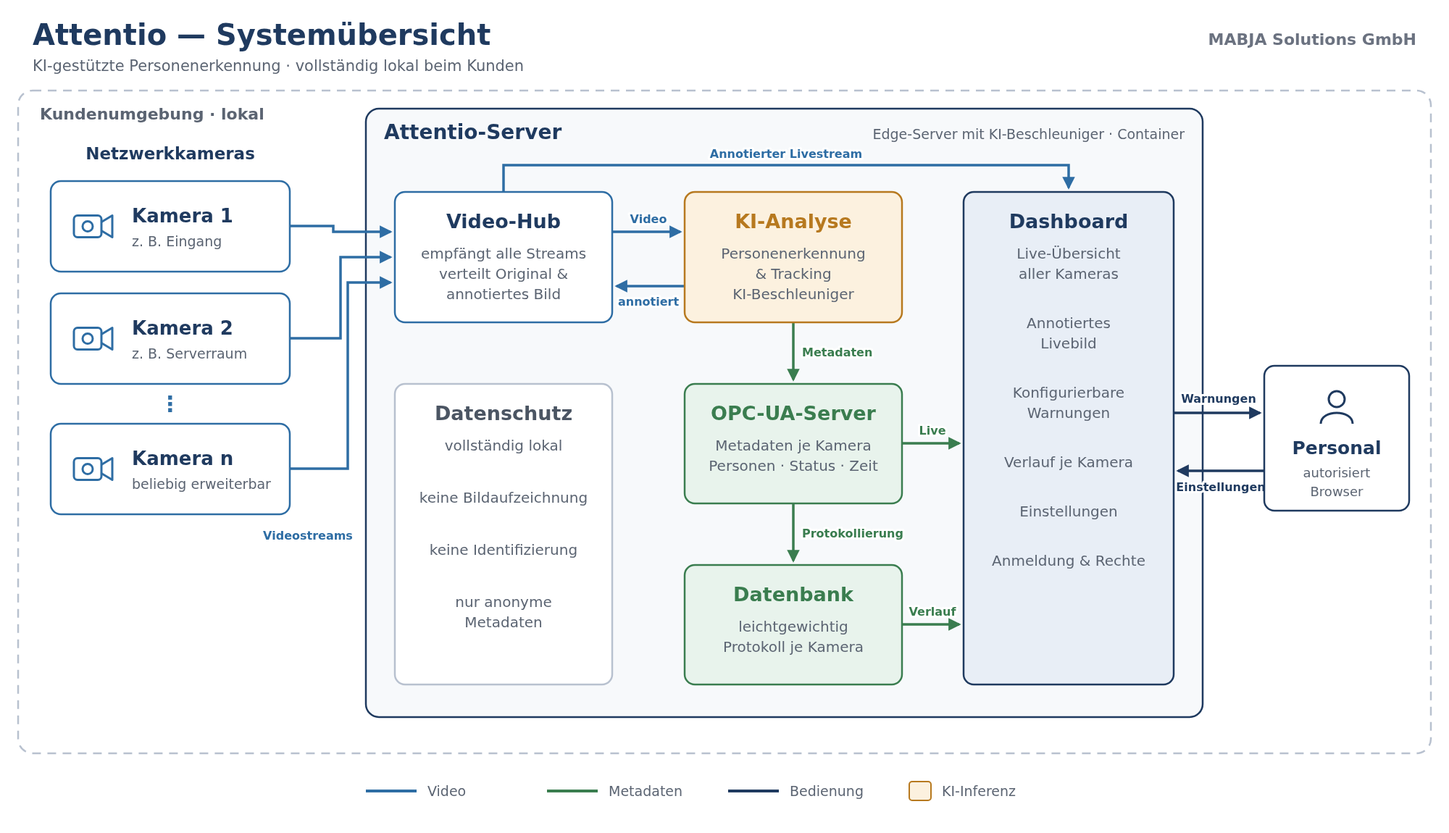
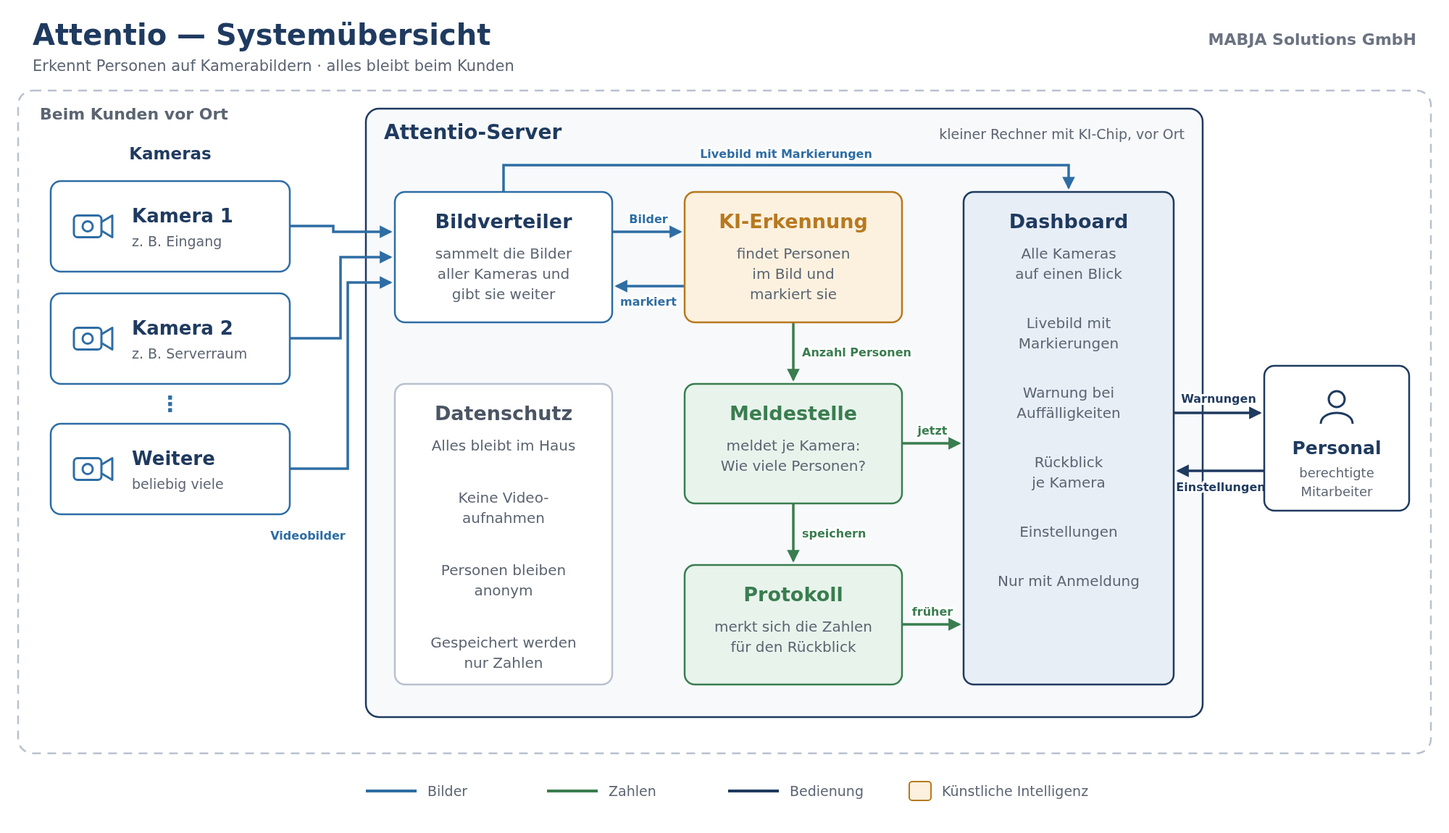
Update der Grafik

diff --git a/Attentio_Systemuebersicht.html b/Attentio_Systemuebersicht.html
@@ -40,6 +40,9 @@ svg.focusing .node:not(.near):not(.frame), svg.focusing .edge:not(.lit) { opacit
 .chip.nutzer { background:#e3f2e8; color:#2f6b42; }
 .info ul { margin:10px 0 0; padding-left:18px; }
 .info li { margin:4px 0; }
+.info .tech { margin-top:10px; padding-top:8px; border-top:1px solid var(--border); }
+.info .tech h3 { margin:0; font-size:12.5px; text-transform:uppercase; letter-spacing:.04em; color:var(--muted); }
+.info .tech ul { margin-top:6px; font-size:13.5px; color:var(--muted); }
 .info .close { border:0; background:transparent; color:var(--muted); font-size:20px; line-height:1; cursor:pointer; padding:0 2px; }
 @media (max-width: 700px) {
   .info { position:fixed; left:12px !important; right:12px; bottom:12px; top:auto !important; width:auto; max-height:55vh; overflow:auto; }
@@ -59,12 +62,12 @@ svg.focusing .node:not(.near):not(.frame), svg.focusing .edge:not(.lit) { opacit
 </defs>
 <rect width="2000" height="1150" fill="#ffffff"/>
 <text x="45" y="62" font-size="40" fill="#1f3a5f" font-weight="bold" text-anchor="start">Attentio — Systemübersicht</text>
-<text x="45" y="98" font-size="21" fill="#5b6472" font-weight="normal" text-anchor="start">KI-gestützte Personenerkennung · vollständig lokal beim Kunden</text>
+<text x="45" y="98" font-size="21" fill="#5b6472" font-weight="normal" text-anchor="start">Erkennt Personen auf Kamerabildern · alles bleibt beim Kunden</text>
 <text x="1955" y="62" font-size="22" fill="#6b7280" font-weight="bold" text-anchor="end">MABJA Solutions GmbH</text>
-<g class="node frame" data-id="network" tabindex="0" role="button" aria-label="Kundenumgebung"><rect class="box" x="25" y="125" width="1950" height="915" rx="20" fill="none" stroke="#b8c1cf" stroke-width="2.5" stroke-dasharray="12 9"/><text x="55" y="165" font-size="22" fill="#5b6472" font-weight="bold" text-anchor="start">Kundenumgebung · lokal</text></g>
-<text x="235" y="220" font-size="23" fill="#1f3a5f" font-weight="bold" text-anchor="middle">Netzwerkkameras</text>
+<g class="node frame" data-id="network" tabindex="0" role="button" aria-label="Kundenumgebung"><rect class="box" x="25" y="125" width="1950" height="915" rx="20" fill="none" stroke="#b8c1cf" stroke-width="2.5" stroke-dasharray="12 9"/><text x="55" y="165" font-size="22" fill="#5b6472" font-weight="bold" text-anchor="start">Beim Kunden vor Ort</text></g>
+<text x="235" y="220" font-size="23" fill="#1f3a5f" font-weight="bold" text-anchor="middle">Kameras</text>
 <text x="235" y="568" font-size="30" fill="#2e6da4" font-weight="bold" text-anchor="middle">⋮</text>
-<g class="node frame" data-id="server" tabindex="0" role="button" aria-label="Attentio-Server"><rect class="box" x="505" y="150" width="1155" height="840" rx="18" fill="#f7f9fb" stroke="#1f3a5f" stroke-width="2.5"/><text x="530" y="192" font-size="28" fill="#1f3a5f" font-weight="bold" text-anchor="start">Attentio-Server</text><text x="1635" y="192" font-size="19" fill="#5b6472" font-weight="normal" text-anchor="end">Edge-Server mit KI-Beschleuniger · Container</text></g>
+<g class="node frame" data-id="server" tabindex="0" role="button" aria-label="Attentio-Server"><rect class="box" x="505" y="150" width="1155" height="840" rx="18" fill="#f7f9fb" stroke="#1f3a5f" stroke-width="2.5"/><text x="530" y="192" font-size="28" fill="#1f3a5f" font-weight="bold" text-anchor="start">Attentio-Server</text><text x="1635" y="192" font-size="19" fill="#5b6472" font-weight="normal" text-anchor="end">kleiner Rechner mit KI-Chip, vor Ort</text></g>
 <g class="edge" data-id="e0" data-a="cam1" data-b="hub">
 <path d="M400,312 H460 V320 H539" fill="none" stroke="transparent" stroke-width="18"/>
 <path class="line" d="M400,312 H460 V320 H539" fill="none" stroke="#2e6da4" stroke-width="3.5" marker-end="url(#arrow-video)"/>
@@ -76,42 +79,42 @@ svg.focusing .node:not(.near):not(.frame), svg.focusing .edge:not(.lit) { opacit
 <g class="edge" data-id="e2" data-a="camn" data-b="hub">
 <path d="M400,647 H480 V390 H539" fill="none" stroke="transparent" stroke-width="18"/>
 <path class="line" d="M400,647 H480 V390 H539" fill="none" stroke="#2e6da4" stroke-width="3.5" marker-end="url(#arrow-video)"/>
-<text class="elabel" x="425" y="745" font-size="16" fill="#2e6da4" font-weight="bold" text-anchor="middle" paint-order="stroke" stroke="#ffffff" stroke-width="6" stroke-linejoin="round">Videostreams</text>
+<text class="elabel" x="425" y="745" font-size="16" fill="#2e6da4" font-weight="bold" text-anchor="middle" paint-order="stroke" stroke="#ffffff" stroke-width="6" stroke-linejoin="round">Videobilder</text>
 </g>
 <g class="edge" data-id="e3" data-a="hub" data-b="ai">
 <path d="M845,320 H939" fill="none" stroke="transparent" stroke-width="18"/>
 <path class="line" d="M845,320 H939" fill="none" stroke="#2e6da4" stroke-width="3.5" marker-end="url(#arrow-video)"/>
-<text class="elabel" x="895" y="308" font-size="16" fill="#2e6da4" font-weight="bold" text-anchor="middle" paint-order="stroke" stroke="#ffffff" stroke-width="6" stroke-linejoin="round">Video</text>
+<text class="elabel" x="895" y="308" font-size="16" fill="#2e6da4" font-weight="bold" text-anchor="middle" paint-order="stroke" stroke="#ffffff" stroke-width="6" stroke-linejoin="round">Bilder</text>
 </g>
 <g class="edge" data-id="e4" data-a="ai" data-b="hub">
 <path d="M945,395 H851" fill="none" stroke="transparent" stroke-width="18"/>
 <path class="line" d="M945,395 H851" fill="none" stroke="#2e6da4" stroke-width="3.5" marker-end="url(#arrow-video)"/>
-<text class="elabel" x="895" y="422" font-size="16" fill="#2e6da4" font-weight="bold" text-anchor="middle" paint-order="stroke" stroke="#ffffff" stroke-width="6" stroke-linejoin="round">annotiert</text>
+<text class="elabel" x="895" y="422" font-size="16" fill="#2e6da4" font-weight="bold" text-anchor="middle" paint-order="stroke" stroke="#ffffff" stroke-width="6" stroke-linejoin="round">markiert</text>
 </g>
 <g class="edge" data-id="e5" data-a="hub" data-b="dashboard">
 <path d="M695,265 V228 H1475 V259" fill="none" stroke="transparent" stroke-width="18"/>
 <path class="line" d="M695,265 V228 H1475 V259" fill="none" stroke="#2e6da4" stroke-width="3.5" marker-end="url(#arrow-video)"/>
-<text class="elabel" x="1085" y="218" font-size="16" fill="#2e6da4" font-weight="bold" text-anchor="middle" paint-order="stroke" stroke="#ffffff" stroke-width="6" stroke-linejoin="round">Annotierter Livestream</text>
+<text class="elabel" x="1085" y="218" font-size="16" fill="#2e6da4" font-weight="bold" text-anchor="middle" paint-order="stroke" stroke="#ffffff" stroke-width="6" stroke-linejoin="round">Livebild mit Markierungen</text>
 </g>
 <g class="edge" data-id="e6" data-a="ai" data-b="opcua">
 <path d="M1095,445 V524" fill="none" stroke="transparent" stroke-width="18"/>
 <path class="line" d="M1095,445 V524" fill="none" stroke="#3a7d4f" stroke-width="3.5" marker-end="url(#arrow-meta)"/>
-<text class="elabel" x="1107" y="492" font-size="16" fill="#3a7d4f" font-weight="bold" text-anchor="start" paint-order="stroke" stroke="#ffffff" stroke-width="6" stroke-linejoin="round">Metadaten</text>
+<text class="elabel" x="1107" y="492" font-size="16" fill="#3a7d4f" font-weight="bold" text-anchor="start" paint-order="stroke" stroke="#ffffff" stroke-width="6" stroke-linejoin="round">Anzahl Personen</text>
 </g>
 <g class="edge" data-id="e7" data-a="opcua" data-b="dashboard">
 <path d="M1245,612 H1324" fill="none" stroke="transparent" stroke-width="18"/>
 <path class="line" d="M1245,612 H1324" fill="none" stroke="#3a7d4f" stroke-width="3.5" marker-end="url(#arrow-meta)"/>
-<text class="elabel" x="1287" y="600" font-size="16" fill="#3a7d4f" font-weight="bold" text-anchor="middle" paint-order="stroke" stroke="#ffffff" stroke-width="6" stroke-linejoin="round">Live</text>
+<text class="elabel" x="1287" y="600" font-size="16" fill="#3a7d4f" font-weight="bold" text-anchor="middle" paint-order="stroke" stroke="#ffffff" stroke-width="6" stroke-linejoin="round">jetzt</text>
 </g>
 <g class="edge" data-id="e8" data-a="opcua" data-b="db">
 <path d="M1095,695 V774" fill="none" stroke="transparent" stroke-width="18"/>
 <path class="line" d="M1095,695 V774" fill="none" stroke="#3a7d4f" stroke-width="3.5" marker-end="url(#arrow-meta)"/>
-<text class="elabel" x="1107" y="742" font-size="16" fill="#3a7d4f" font-weight="bold" text-anchor="start" paint-order="stroke" stroke="#ffffff" stroke-width="6" stroke-linejoin="round">Protokollierung</text>
+<text class="elabel" x="1107" y="742" font-size="16" fill="#3a7d4f" font-weight="bold" text-anchor="start" paint-order="stroke" stroke="#ffffff" stroke-width="6" stroke-linejoin="round">speichern</text>
 </g>
 <g class="edge" data-id="e9" data-a="db" data-b="dashboard">
 <path d="M1245,862 H1324" fill="none" stroke="transparent" stroke-width="18"/>
 <path class="line" d="M1245,862 H1324" fill="none" stroke="#3a7d4f" stroke-width="3.5" marker-end="url(#arrow-meta)"/>
-<text class="elabel" x="1287" y="850" font-size="16" fill="#3a7d4f" font-weight="bold" text-anchor="middle" paint-order="stroke" stroke="#ffffff" stroke-width="6" stroke-linejoin="round">Verlauf</text>
+<text class="elabel" x="1287" y="850" font-size="16" fill="#3a7d4f" font-weight="bold" text-anchor="middle" paint-order="stroke" stroke="#ffffff" stroke-width="6" stroke-linejoin="round">früher</text>
 </g>
 <g class="edge" data-id="e10" data-a="dashboard" data-b="staff">
 <path d="M1620,570 H1739" fill="none" stroke="transparent" stroke-width="18"/>
@@ -135,91 +138,95 @@ svg.focusing .node:not(.near):not(.frame), svg.focusing .edge:not(.lit) { opacit
 <text x="182" y="462" font-size="26" fill="#1f3a5f" font-weight="bold" text-anchor="start">Kamera 2</text>
 <text x="182" y="495" font-size="19" fill="#5b6472" font-weight="normal" text-anchor="start">z. B. Serverraum</text>
 </g>
-<g class="node" data-id="camn" tabindex="0" role="button" aria-label="Kamera n">
+<g class="node" data-id="camn" tabindex="0" role="button" aria-label="Weitere">
 <rect class="box" x="70" y="585" width="330" height="125" rx="14" fill="#ffffff" stroke="#2e6da4" stroke-width="2.5"/>
 <g fill="none" stroke="#2e6da4" stroke-width="3" stroke-linejoin="round"><rect x="102" y="632.5" width="38" height="30" rx="5"/><path d="M140,641.5 L155,632.5 V662.5 L140,653.5"/><circle cx="121" cy="647.5" r="7"/></g>
-<text x="182" y="642" font-size="26" fill="#1f3a5f" font-weight="bold" text-anchor="start">Kamera n</text>
-<text x="182" y="675" font-size="19" fill="#5b6472" font-weight="normal" text-anchor="start">beliebig erweiterbar</text>
+<text x="182" y="642" font-size="26" fill="#1f3a5f" font-weight="bold" text-anchor="start">Weitere</text>
+<text x="182" y="675" font-size="19" fill="#5b6472" font-weight="normal" text-anchor="start">beliebig viele</text>
 </g>
-<g class="node" data-id="hub" tabindex="0" role="button" aria-label="Video-Hub">
+<g class="node" data-id="hub" tabindex="0" role="button" aria-label="Bildverteiler">
 <rect class="box" x="545" y="265" width="300" height="180" rx="14" fill="#ffffff" stroke="#2e6da4" stroke-width="2.5"/>
-<text x="695.0" y="315" font-size="27" fill="#1f3a5f" font-weight="bold" text-anchor="middle">Video-Hub</text>
-<text x="695.0" y="357" font-size="20" fill="#5b6472" font-weight="normal" text-anchor="middle">empfängt alle Streams</text>
-<text x="695.0" y="385" font-size="20" fill="#5b6472" font-weight="normal" text-anchor="middle">verteilt Original &amp;</text>
-<text x="695.0" y="413" font-size="20" fill="#5b6472" font-weight="normal" text-anchor="middle">annotiertes Bild</text>
+<text x="695.0" y="315" font-size="27" fill="#1f3a5f" font-weight="bold" text-anchor="middle">Bildverteiler</text>
+<text x="695.0" y="357" font-size="20" fill="#5b6472" font-weight="normal" text-anchor="middle">sammelt die Bilder</text>
+<text x="695.0" y="385" font-size="20" fill="#5b6472" font-weight="normal" text-anchor="middle">aller Kameras und</text>
+<text x="695.0" y="413" font-size="20" fill="#5b6472" font-weight="normal" text-anchor="middle">gibt sie weiter</text>
 </g>
-<g class="node" data-id="ai" tabindex="0" role="button" aria-label="KI-Analyse">
+<g class="node" data-id="ai" tabindex="0" role="button" aria-label="KI-Erkennung">
 <rect class="box" x="945" y="265" width="300" height="180" rx="14" fill="#fcf1df" stroke="#b7791f" stroke-width="2.5"/>
-<text x="1095.0" y="315" font-size="27" fill="#b7791f" font-weight="bold" text-anchor="middle">KI-Analyse</text>
-<text x="1095.0" y="357" font-size="20" fill="#5b6472" font-weight="normal" text-anchor="middle">Personenerkennung</text>
-<text x="1095.0" y="385" font-size="20" fill="#5b6472" font-weight="normal" text-anchor="middle">&amp; Tracking</text>
-<text x="1095.0" y="413" font-size="20" fill="#5b6472" font-weight="normal" text-anchor="middle">KI-Beschleuniger</text>
+<text x="1095.0" y="315" font-size="27" fill="#b7791f" font-weight="bold" text-anchor="middle">KI-Erkennung</text>
+<text x="1095.0" y="357" font-size="20" fill="#5b6472" font-weight="normal" text-anchor="middle">findet Personen</text>
+<text x="1095.0" y="385" font-size="20" fill="#5b6472" font-weight="normal" text-anchor="middle">im Bild und</text>
+<text x="1095.0" y="413" font-size="20" fill="#5b6472" font-weight="normal" text-anchor="middle">markiert sie</text>
 </g>
-<g class="node" data-id="opcua" tabindex="0" role="button" aria-label="OPC-UA-Server">
+<g class="node" data-id="opcua" tabindex="0" role="button" aria-label="Meldestelle">
 <rect class="box" x="945" y="530" width="300" height="165" rx="14" fill="#e8f3ec" stroke="#3a7d4f" stroke-width="2.5"/>
-<text x="1095.0" y="580" font-size="27" fill="#3a7d4f" font-weight="bold" text-anchor="middle">OPC-UA-Server</text>
-<text x="1095.0" y="622" font-size="20" fill="#5b6472" font-weight="normal" text-anchor="middle">Metadaten je Kamera</text>
-<text x="1095.0" y="650" font-size="20" fill="#5b6472" font-weight="normal" text-anchor="middle">Personen · Status · Zeit</text>
+<text x="1095.0" y="580" font-size="27" fill="#3a7d4f" font-weight="bold" text-anchor="middle">Meldestelle</text>
+<text x="1095.0" y="622" font-size="20" fill="#5b6472" font-weight="normal" text-anchor="middle">meldet je Kamera:</text>
+<text x="1095.0" y="650" font-size="20" fill="#5b6472" font-weight="normal" text-anchor="middle">Wie viele Personen?</text>
 </g>
-<g class="node" data-id="db" tabindex="0" role="button" aria-label="Datenbank">
+<g class="node" data-id="db" tabindex="0" role="button" aria-label="Protokoll">
 <rect class="box" x="945" y="780" width="300" height="165" rx="14" fill="#e8f3ec" stroke="#3a7d4f" stroke-width="2.5"/>
-<text x="1095.0" y="830" font-size="27" fill="#3a7d4f" font-weight="bold" text-anchor="middle">Datenbank</text>
-<text x="1095.0" y="872" font-size="20" fill="#5b6472" font-weight="normal" text-anchor="middle">leichtgewichtig</text>
-<text x="1095.0" y="900" font-size="20" fill="#5b6472" font-weight="normal" text-anchor="middle">Protokoll je Kamera</text>
+<text x="1095.0" y="830" font-size="27" fill="#3a7d4f" font-weight="bold" text-anchor="middle">Protokoll</text>
+<text x="1095.0" y="872" font-size="20" fill="#5b6472" font-weight="normal" text-anchor="middle">merkt sich die Zahlen</text>
+<text x="1095.0" y="900" font-size="20" fill="#5b6472" font-weight="normal" text-anchor="middle">für den Rückblick</text>
 </g>
 <g class="node" data-id="dashboard" tabindex="0" role="button" aria-label="Dashboard">
 <rect class="box" x="1330" y="265" width="290" height="680" rx="14" fill="#e8eef6" stroke="#1f3a5f" stroke-width="2.5"/>
 <text x="1475.0" y="315" font-size="27" fill="#1f3a5f" font-weight="bold" text-anchor="middle">Dashboard</text>
-<text x="1475.0" y="357" font-size="20" fill="#5b6472" font-weight="normal" text-anchor="middle">Live-Übersicht</text>
-<text x="1475.0" y="385" font-size="20" fill="#5b6472" font-weight="normal" text-anchor="middle">aller Kameras</text>
-<text x="1475.0" y="453" font-size="20" fill="#5b6472" font-weight="normal" text-anchor="middle">Annotiertes</text>
-<text x="1475.0" y="481" font-size="20" fill="#5b6472" font-weight="normal" text-anchor="middle">Livebild</text>
-<text x="1475.0" y="549" font-size="20" fill="#5b6472" font-weight="normal" text-anchor="middle">Konfigurierbare</text>
-<text x="1475.0" y="577" font-size="20" fill="#5b6472" font-weight="normal" text-anchor="middle">Warnungen</text>
-<text x="1475.0" y="645" font-size="20" fill="#5b6472" font-weight="normal" text-anchor="middle">Verlauf je Kamera</text>
-<text x="1475.0" y="713" font-size="20" fill="#5b6472" font-weight="normal" text-anchor="middle">Einstellungen</text>
-<text x="1475.0" y="781" font-size="20" fill="#5b6472" font-weight="normal" text-anchor="middle">Anmeldung &amp; Rechte</text>
+<text x="1475.0" y="357" font-size="20" fill="#5b6472" font-weight="normal" text-anchor="middle">Alle Kameras</text>
+<text x="1475.0" y="385" font-size="20" fill="#5b6472" font-weight="normal" text-anchor="middle">auf einen Blick</text>
+<text x="1475.0" y="453" font-size="20" fill="#5b6472" font-weight="normal" text-anchor="middle">Livebild mit</text>
+<text x="1475.0" y="481" font-size="20" fill="#5b6472" font-weight="normal" text-anchor="middle">Markierungen</text>
+<text x="1475.0" y="549" font-size="20" fill="#5b6472" font-weight="normal" text-anchor="middle">Warnung bei</text>
+<text x="1475.0" y="577" font-size="20" fill="#5b6472" font-weight="normal" text-anchor="middle">Auffälligkeiten</text>
+<text x="1475.0" y="645" font-size="20" fill="#5b6472" font-weight="normal" text-anchor="middle">Rückblick</text>
+<text x="1475.0" y="673" font-size="20" fill="#5b6472" font-weight="normal" text-anchor="middle">je Kamera</text>
+<text x="1475.0" y="741" font-size="20" fill="#5b6472" font-weight="normal" text-anchor="middle">Einstellungen</text>
+<text x="1475.0" y="809" font-size="20" fill="#5b6472" font-weight="normal" text-anchor="middle">Nur mit Anmeldung</text>
 </g>
 <g class="node" data-id="privacy" tabindex="0" role="button" aria-label="Datenschutz">
 <rect class="box" x="545" y="530" width="300" height="415" rx="14" fill="#ffffff" stroke="#b8c1cf" stroke-width="2.5"/>
 <text x="695.0" y="580" font-size="27" fill="#4b5563" font-weight="bold" text-anchor="middle">Datenschutz</text>
-<text x="695.0" y="622" font-size="20" fill="#5b6472" font-weight="normal" text-anchor="middle">vollständig lokal</text>
-<text x="695.0" y="694" font-size="20" fill="#5b6472" font-weight="normal" text-anchor="middle">keine Bildaufzeichnung</text>
-<text x="695.0" y="766" font-size="20" fill="#5b6472" font-weight="normal" text-anchor="middle">keine Identifizierung</text>
-<text x="695.0" y="838" font-size="20" fill="#5b6472" font-weight="normal" text-anchor="middle">nur anonyme</text>
-<text x="695.0" y="866" font-size="20" fill="#5b6472" font-weight="normal" text-anchor="middle">Metadaten</text>
+<text x="695.0" y="622" font-size="20" fill="#5b6472" font-weight="normal" text-anchor="middle">Alles bleibt im Haus</text>
+<text x="695.0" y="694" font-size="20" fill="#5b6472" font-weight="normal" text-anchor="middle">Keine Video-</text>
+<text x="695.0" y="722" font-size="20" fill="#5b6472" font-weight="normal" text-anchor="middle">aufnahmen</text>
+<text x="695.0" y="794" font-size="20" fill="#5b6472" font-weight="normal" text-anchor="middle">Personen bleiben</text>
+<text x="695.0" y="822" font-size="20" fill="#5b6472" font-weight="normal" text-anchor="middle">anonym</text>
+<text x="695.0" y="894" font-size="20" fill="#5b6472" font-weight="normal" text-anchor="middle">Gespeichert werden</text>
+<text x="695.0" y="922" font-size="20" fill="#5b6472" font-weight="normal" text-anchor="middle">nur Zahlen</text>
 </g>
 <g class="node" data-id="staff" tabindex="0" role="button" aria-label="Personal">
 <rect class="box" x="1745" y="505" width="200" height="200" rx="14" fill="#ffffff" stroke="#1f3a5f" stroke-width="2.5"/>
 <g fill="none" stroke="#1f3a5f" stroke-width="3"><circle cx="1845.0" cy="551" r="11"/><path d="M1823.0,585 C1823.0,565 1867.0,565 1867.0,585"/></g>
 <text x="1845.0" y="627" font-size="25" fill="#1f3a5f" font-weight="bold" text-anchor="middle">Personal</text>
-<text x="1845.0" y="659" font-size="18" fill="#5b6472" font-weight="normal" text-anchor="middle">autorisiert</text>
-<text x="1845.0" y="685" font-size="18" fill="#5b6472" font-weight="normal" text-anchor="middle">Browser</text>
+<text x="1845.0" y="659" font-size="18" fill="#5b6472" font-weight="normal" text-anchor="middle">berechtigte</text>
+<text x="1845.0" y="685" font-size="18" fill="#5b6472" font-weight="normal" text-anchor="middle">Mitarbeiter</text>
 </g>
 <line x1="505" y1="1092" x2="575" y2="1092" stroke="#2e6da4" stroke-width="4"/>
-<text x="590" y="1099" font-size="19" fill="#5b6472" font-weight="normal" text-anchor="start">Video</text>
+<text x="590" y="1099" font-size="19" fill="#5b6472" font-weight="normal" text-anchor="start">Bilder</text>
 <line x1="755" y1="1092" x2="825" y2="1092" stroke="#3a7d4f" stroke-width="4"/>
-<text x="840" y="1099" font-size="19" fill="#5b6472" font-weight="normal" text-anchor="start">Metadaten</text>
+<text x="840" y="1099" font-size="19" fill="#5b6472" font-weight="normal" text-anchor="start">Zahlen</text>
 <line x1="1005" y1="1092" x2="1075" y2="1092" stroke="#1f3a5f" stroke-width="4"/>
 <text x="1090" y="1099" font-size="19" fill="#5b6472" font-weight="normal" text-anchor="start">Bedienung</text>
 <rect x="1255" y="1079" width="30" height="26" rx="4" fill="#fcf1df" stroke="#b7791f" stroke-width="2"/>
-<text x="1300" y="1099" font-size="19" fill="#5b6472" font-weight="normal" text-anchor="start">KI-Inferenz</text>
-<text x="45" y="1099" font-size="18" fill="#5b6472" font-weight="normal" text-anchor="start" font-style="italic">Bereiche anklicken für Details</text>
+<text x="1300" y="1099" font-size="19" fill="#5b6472" font-weight="normal" text-anchor="start">Künstliche Intelligenz</text>
+<text x="45" y="1099" font-size="18" fill="#5b6472" font-weight="normal" text-anchor="start" font-style="italic">Für Details anklicken</text>
 </svg>
     </div>
     <div class="info" id="info" hidden role="dialog" aria-live="polite">
       <div class="info-head"><div><h2 id="info-title"></h2><div class="sub" id="info-sub"></div></div>
         <span class="chip" id="info-chip"></span><button class="close" id="info-close" aria-label="Schließen">×</button></div>
       <ul id="info-list"></ul>
+      <div id="info-tech"></div>
     </div>
   </div>
   <p class="note">MABJA Solutions GmbH · Projekt „Serverraumüberwachung (Kamera &amp; Raspberry Pi)“ · Produkt Attentio. Bereiche überfahren zum Hervorheben, anklicken für Details.</p>
 </main>
 <script>
-const INFO = {"cam1": {"sub": "Netzwerkkamera", "items": ["Beliebig viele handelsübliche Netzwerkkameras (IP-Kameras) im Netz des Kunden; vorhandene Kameras lassen sich weiter nutzen.", "Jede Kamera schickt ihren Videostream (RTSP, H.264) über das lokale Netz an den Attentio-Server.", "Neue Kameras werden automatisch erkannt; Ausrichtung und Bildgröße sind je Kamera im Dashboard einstellbar."]}, "cam2": {"sub": "Netzwerkkamera", "items": ["Beliebig viele handelsübliche Netzwerkkameras (IP-Kameras) im Netz des Kunden; vorhandene Kameras lassen sich weiter nutzen.", "Jede Kamera schickt ihren Videostream (RTSP, H.264) über das lokale Netz an den Attentio-Server.", "Neue Kameras werden automatisch erkannt; Ausrichtung und Bildgröße sind je Kamera im Dashboard einstellbar."]}, "camn": {"sub": "Netzwerkkamera", "items": ["Beliebig viele handelsübliche Netzwerkkameras (IP-Kameras) im Netz des Kunden; vorhandene Kameras lassen sich weiter nutzen.", "Jede Kamera schickt ihren Videostream (RTSP, H.264) über das lokale Netz an den Attentio-Server.", "Neue Kameras werden automatisch erkannt; Ausrichtung und Bildgröße sind je Kamera im Dashboard einstellbar."]}, "hub": {"sub": "Container · Stream-Verteilung", "items": ["Zentrale Annahmestelle für alle Kamerastreams; jede Kamera hat einen eigenen Kanal.", "Leitet das Originalbild an die KI-Analyse weiter und stellt das annotierte Bild für das Dashboard bereit.", "Zugriff nur mit Zugangsdaten je Rolle: Kameras dürfen nur senden, die Analyse nur ihre Ergebnisse veröffentlichen."]}, "ai": {"sub": "Container · Personenerkennung", "items": ["Erkennt Personen in Echtzeit mit einem KI-Beschleuniger direkt im Server; keine Cloud nötig.", "Tracking hält jede Person über die Bildfolge mit derselben Markierung, ohne sie zu identifizieren.", "Erzeugt je Kamera das annotierte Bild (Markierungen) und die Metadaten.", "Mehrere Kameras parallel, jede in ihrem eigenen Prozess; fällt einer aus, laufen die anderen weiter."]}, "opcua": {"sub": "Container · Schnittstelle", "items": ["Stellt die Metadaten über OPC UA bereit, einen offenen Industriestandard.", "Je Kamera, einmal pro Sekunde: Anzahl Personen, Kamera aktiv, Zeitstempel.", "Dashboard und Datenbank lesen hier; auch vorhandene Leit- oder Gebäudesysteme können sich anbinden."]}, "db": {"sub": "Container · Protokoll", "items": ["Leichtgewichtige Datenbank, die alle Metadaten je Kamera mitschreibt.", "Gespeichert werden nur Zahlen und Zustände (Zeit, Personenanzahl, Erkennung, Kamerastatus), keine Bilder.", "Aufbewahrungsdauer einstellbar; im Dashboard als Verlauf je Kamera abrufbar."]}, "dashboard": {"sub": "Container · Weboberfläche", "items": ["Zugang nur für autorisiertes Personal, mit Anmeldung und Rechten je Rolle.", "Live-Übersicht aller Kameras: Status, Anzahl Personen, annotiertes Livebild.", "Konfigurierbare Warnungen, z. B. Person außerhalb erlaubter Zeiten oder Kamera ausgefallen.", "Verlauf je Kamera aus der Datenbank; individuelle Einstellungen für Kameras und Anzeige."]}, "privacy": {"sub": "Privacy by Design", "items": ["Das gesamte System läuft lokal beim Kunden; keine Cloud, keine Daten außer Haus.", "Videobilder werden nur flüchtig im Arbeitsspeicher verarbeitet und nicht aufgezeichnet.", "Keine Identifizierung von Personen; gespeichert werden nur anonyme Metadaten.", "Einsicht nur für autorisiertes Personal."]}, "staff": {"sub": "Nutzer", "items": ["Sicherheits- oder Betriebspersonal mit Berechtigung.", "Zugriff per Browser im lokalen Netz: am Leitstand, am Arbeitsplatz oder mobil.", "Erhält Warnungen sofort und passt Einstellungen im Rahmen seiner Rechte an."]}, "network": {"sub": "Lokales Netzwerk", "items": ["Kameras, Server und Dashboard befinden sich vollständig im Netz des Kunden.", "Keine Internetverbindung nötig: Videos und Daten verlassen das Gebäude nicht.", "Edge Computing: Die KI-Auswertung findet dort statt, wo die Bilder entstehen."]}, "server": {"sub": "Edge-Server", "items": ["Kompakter Server mit KI-Beschleuniger beim Kunden vor Ort.", "Alle Dienste laufen als einzelne Container: getrennt, einzeln aktualisierbar und erweiterbar.", "Liefert annotierte Streams und Metadaten an Dashboard und Datenbank."]}};
-const TITLES = {"cam1": "Kamera 1", "cam2": "Kamera 2", "camn": "Weitere Kameras", "hub": "Video-Hub", "ai": "KI-Analyse", "opcua": "OPC-UA-Server", "db": "Datenbank", "dashboard": "Dashboard", "privacy": "Datenschutz", "staff": "Personal", "network": "Kundenumgebung", "server": "Attentio-Server"};
+const INFO = {"cam1": {"sub": "Kamera beim Kunden", "items": ["Ganz normale Netzwerkkameras, wie sie in vielen Gebäuden schon hängen. Vorhandene Kameras können weiter genutzt werden.", "Jede Kamera schickt ihr Bild über das hauseigene Netzwerk an den Attentio-Server.", "Es können beliebig viele Kameras sein; neue werden automatisch erkannt."], "tech": ["IP-Kameras, Videostream per RTSP, H.264.", "Drehung und Bildgröße je Kamera im Dashboard einstellbar."]}, "cam2": {"sub": "Kamera beim Kunden", "items": ["Ganz normale Netzwerkkameras, wie sie in vielen Gebäuden schon hängen. Vorhandene Kameras können weiter genutzt werden.", "Jede Kamera schickt ihr Bild über das hauseigene Netzwerk an den Attentio-Server.", "Es können beliebig viele Kameras sein; neue werden automatisch erkannt."], "tech": ["IP-Kameras, Videostream per RTSP, H.264.", "Drehung und Bildgröße je Kamera im Dashboard einstellbar."]}, "camn": {"sub": "Kamera beim Kunden", "items": ["Ganz normale Netzwerkkameras, wie sie in vielen Gebäuden schon hängen. Vorhandene Kameras können weiter genutzt werden.", "Jede Kamera schickt ihr Bild über das hauseigene Netzwerk an den Attentio-Server.", "Es können beliebig viele Kameras sein; neue werden automatisch erkannt."], "tech": ["IP-Kameras, Videostream per RTSP, H.264.", "Drehung und Bildgröße je Kamera im Dashboard einstellbar."]}, "hub": {"sub": "Teil des Attentio-Servers", "items": ["Die Sammelstelle für alle Kamerabilder; jede Kamera hat ihren eigenen Kanal.", "Gibt die Bilder an die KI-Erkennung weiter und die markierten Bilder an das Dashboard.", "Nur berechtigte Geräte dürfen Bilder senden oder abholen."], "tech": ["Streaming-Server (MediaMTX) als Container.", "RTSP/WebRTC, Zugangsdaten je Rolle."]}, "ai": {"sub": "Teil des Attentio-Servers", "items": ["Künstliche Intelligenz erkennt in jedem Bild, wo Personen sind, und zeichnet einen Rahmen um sie.", "Sie folgt jeder Person durch das Bild, weiß aber nicht, wer sie ist.", "Daraus entstehen das markierte Livebild und die Anzahl der Personen je Kamera.", "Läuft direkt im Server auf einem eigenen KI-Chip; nichts geht ins Internet."], "tech": ["Personenerkennung (YOLO) auf einem Hailo-KI-Beschleuniger.", "Tracking (ByteTrack), ein eigener Prozess je Kamera.", "Mehrere Kameras parallel; fällt eine aus, laufen die anderen weiter."]}, "opcua": {"sub": "Teil des Attentio-Servers", "items": ["Meldet jede Sekunde für jede Kamera: Wie viele Personen sind zu sehen, läuft die Kamera, und wann war das?", "Dashboard und Protokoll holen sich die Zahlen von hier.", "Auch andere Systeme des Kunden, z. B. eine Gebäudeleittechnik, können diese Meldungen nutzen."], "tech": ["OPC-UA-Server (offener Industriestandard).", "Werte je Kamera: PersonCount, CameraConnected, Timestamp; 1 Hz."]}, "db": {"sub": "Teil des Attentio-Servers", "items": ["Schreibt die Zahlen laufend mit, damit man später nachsehen kann: Wann waren wie viele Personen da?", "Es werden keine Bilder gespeichert, nur Zahlen und Uhrzeiten.", "Wie lange die Einträge aufbewahrt werden, ist einstellbar."], "tech": ["Leichtgewichtige Datenbank, ein Eintrag je Kamera und Zeitpunkt.", "Felder: Zeitstempel, Anzahl Personen, Erkennung (ja/nein), Kamerastatus."]}, "dashboard": {"sub": "Teil des Attentio-Servers", "items": ["Die Bedienoberfläche, die man im Webbrowser öffnet, z. B. am PC im Leitstand oder auf dem Tablet.", "Zeigt alle Kameras auf einen Blick: läuft sie, wie viele Personen sind zu sehen, und das Livebild mit Markierungen.", "Warnt, wenn etwas auffällt, z. B. eine Person außerhalb der erlaubten Zeiten oder eine ausgefallene Kamera.", "Zeigt für jede Kamera den Verlauf aus dem Protokoll.", "Nur für angemeldete, berechtigte Personen."], "tech": ["Weboberfläche als Container; Anmeldung mit Rollen und Rechten.", "Liest die Meldestelle (OPC UA) und das Protokoll (Datenbank).", "Warnregeln und Kameraeinstellungen frei konfigurierbar."]}, "privacy": {"sub": "Datenschutz eingebaut", "items": ["Alles läuft beim Kunden vor Ort; keine Cloud, nichts verlässt das Gebäude.", "Kamerabilder werden nur kurz zur Auswertung verwendet und nie gespeichert.", "Das System erkennt, dass eine Person da ist, aber nicht, wer es ist.", "Gespeichert werden nur Zahlen, z. B. „3 Personen um 14:05 Uhr“.", "Einsehen dürfen das nur berechtigte Mitarbeiter."], "tech": ["Privacy by Design: Bilder nur im Arbeitsspeicher, keine Aufzeichnung, keine Wiedererkennung (Re-ID)."]}, "staff": {"sub": "Nutzer", "items": ["Zum Beispiel Sicherheits- oder Haustechnik-Personal mit Berechtigung.", "Öffnet das Dashboard im Browser, am Arbeitsplatz, im Leitstand oder unterwegs im Gebäude.", "Bekommt Warnungen sofort angezeigt und kann Einstellungen im Rahmen seiner Rechte ändern."]}, "network": {"sub": "Beim Kunden vor Ort", "items": ["Kameras, Server und Dashboard stehen alle beim Kunden im eigenen Netzwerk.", "Es wird keine Internetverbindung gebraucht; Bilder und Daten bleiben im Haus.", "Die Auswertung passiert dort, wo die Bilder entstehen."], "tech": ["Edge Computing: lokale KI-Auswertung ohne Cloud-Dienste."]}, "server": {"sub": "Herzstück des Systems", "items": ["Ein kleiner Rechner mit eingebautem KI-Chip, der beim Kunden steht.", "Er nimmt die Kamerabilder an, wertet sie aus und stellt die Ergebnisse dem Dashboard bereit.", "Jede Aufgabe läuft als eigener Baustein; so lässt sich das System leicht erweitern und warten."], "tech": ["Edge-Server mit KI-Beschleuniger; alle Dienste als Container."]}};
+const TITLES = {"cam1": "Kamera 1", "cam2": "Kamera 2", "camn": "Weitere Kameras", "hub": "Bildverteiler", "ai": "KI-Erkennung", "opcua": "Meldestelle", "db": "Protokoll", "dashboard": "Dashboard", "privacy": "Datenschutz", "staff": "Personal", "network": "Beim Kunden vor Ort", "server": "Attentio-Server"};
 const STATUS = {"cam1": "kunde", "cam2": "kunde", "camn": "kunde", "hub": "server", "ai": "server", "opcua": "server", "db": "server", "dashboard": "server", "privacy": "server", "staff": "nutzer", "network": "kunde", "server": "server"};
-const CHIP = { kunde: 'Kundenumgebung', server: 'Attentio-Server', nutzer: 'Nutzer' };
+const CHIP = { kunde: 'Beim Kunden', server: 'Attentio-Server', nutzer: 'Nutzer' };
 const svg = document.querySelector('#diagram svg');
 const diagram = document.getElementById('diagram');
 const box = document.getElementById('info');
@@ -256,6 +263,15 @@ function open(id, clientX, clientY) {
   document.getElementById('info-list').replaceChildren(...d.items.map((t) => {
     const li = document.createElement('li'); li.textContent = t; return li;
   }));
+  const tech = document.getElementById('info-tech');
+  tech.replaceChildren();
+  if (d.tech) {
+    const wrap = document.createElement('div'); wrap.className = 'tech';
+    const head = document.createElement('h3'); head.textContent = 'Technische Details';
+    const ul = document.createElement('ul');
+    ul.append(...d.tech.map((t) => { const li = document.createElement('li'); li.textContent = t; return li; }));
+    wrap.append(head, ul); tech.append(wrap);
+  }
   box.hidden = false;
   const r = diagram.getBoundingClientRect();
   const bw = box.offsetWidth, bh = box.offsetHeight;
@@ -278,7 +294,7 @@ function close() {
 for (const n of nodes) {
   n.addEventListener('mouseenter', () => { if (!selected) light(n.dataset.id); });
   n.addEventListener('mouseleave', () => { if (!selected) light(null); });
-  n.addEventListener('click', (ev) => { ev.stopPropagation(); open(n.dataset.id, ev.clientX, ev.clientY); });
+  n.addEventListener('click', (ev) => { ev.stopPropagation(); if (selected) { close(); return; } open(n.dataset.id, ev.clientX, ev.clientY); });
   n.addEventListener('keydown', (ev) => {
     if (ev.key !== 'Enter' && ev.key !== ' ') return;
     ev.preventDefault();
